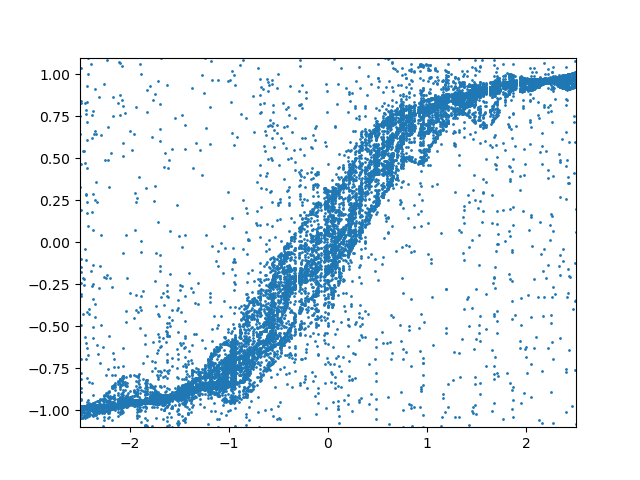
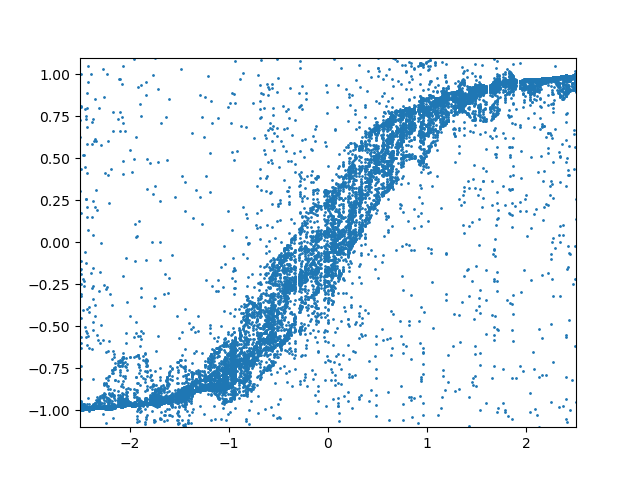
generic commit

diff --git a/scripts/transport/c_transport.py b/scripts/transport/c_transport.py
@@ -362,7 +362,7 @@ def run():
     slice_range = [-3,3]
     process_funcs = []
     #process_funcs = [flip_2tensor, flip_2tensor]
-    conditional_transport_exp(ref_gen, target_gen, exp_name= 'spiral_composed', N = 3000, n_iter = 5000,
+    conditional_transport_exp(ref_gen, target_gen, exp_name= 'spiral_composed', N = 2000, n_iter = 4000,
                               plt_range=range, slice_range= slice_range, process_funcs=process_funcs, slice_vals=[0])
 
 
